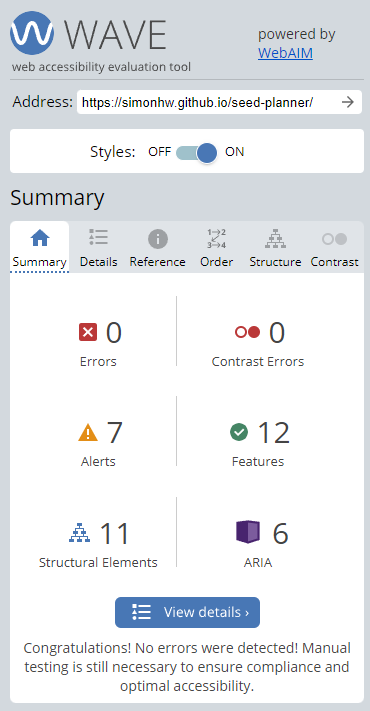
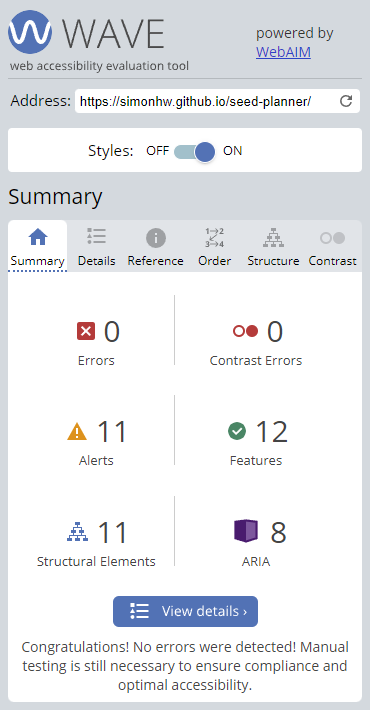
Doc: Update accessibility testing section of README.

diff --git a/README.md b/README.md
@@ -381,18 +381,26 @@ Calculate Button | When the user correctly fills out the size input fields and s
 
 ### Accessibility Testing
 [Wave](https://wave.webaim.org/) was used to check the web application for errors and issues associated with accessibility.
+The results for each page are shown below.
 
-![Results of Wave test for the web application](assets/images/readme/testing/wave-test.png)
+#### Index.html
+![Results of Wave test for index.html](assets/images/readme/testing/wave-test.png)
 
-There was initially a alert for a missing fieldset around the group of radio buttons. It was determined that the purpose of the radio buttons was explained by the heading of "Vegetable Picker", so the fieldset was omitted. To satisfy accessibility requirements, the parent div was given the attributes `role="radiogroup"` and `aria-label="Vegetable Picker` to aid screen reader users. The alert no longer appears for the current version of the web application.
+- There is one alert for a redundant link. This is the email link in the second footer. There are two links and two footers due to the different layout of the content on mobile screens and larger screens.
 
-![Wave alert for missing fieldset](assets/images/readme/testing/missing-fieldset.png)
+    ![Wave alerts for redundant link](assets/images/readme/testing/redundant-link.png)
 
-There are seven alerts for justified paragraph text. The paragraphs look more presentable when using this text alignment style, and the negative impat on readability that can sometimes be associated with this stlye ("varying word/letter spacing and 'rivers of white' that flow through the text") were not observed in the web application.
+- There are ten alerts for justified paragraph text. The paragraphs look more presentable when using this text alignment style, and the negative impat on readability that can sometimes be associated with this stlye ("varying word/letter spacing and 'rivers of white' that flow through the text") were not observed in the web application.
 
-![Wave alerts for justified text](assets/images/readme/testing/justified-text.png)
+    ![Wave alerts for justified text](assets/images/readme/testing/justified-text.png)
 
-To improve accessibilty and not sacrifice the existing code structure, the use of `aria-labelledby` was utilised for each radio button to make sure users of screen readers would know which button they were interacting with. 
+- There was initially an alert for a missing fieldset around the group of radio buttons. It was determined that the purpose of the radio buttons was explained by the heading of "Vegetable Picker", so the fieldset was omitted. To satisfy accessibility requirements, the parent div was given the attributes `role="radiogroup"` and `aria-label="Vegetable Picker` to aid screen reader users. The alert no longer appears for the current version of the web application.
+
+    ![Wave alert for missing fieldset](assets/images/readme/testing/missing-fieldset.png)
+
+- To improve accessibilty and not sacrifice the existing code structure, the use of `aria-labelledby` was utilised for each radio button to make sure users of screen readers would know which button they were interacting with. 
+
+#### 404.html
 
 ## Bugs
 ### Known Bugs
@@ -400,10 +408,6 @@ Note: Not all known bugs are present in the final version of the website.
 | # | Bug | Image | Plan to Solve |
 | --- | --- | --- | --- |
 | 1 | On the first page load or after a cache refresh, text wrapped in `<b>` tags is shown in a default font for ~32 milliseconds. (Note: the frames showing the default text have had time added to them just for the purposes of showing the effect in this gif file)| ![Strong tags bug](assets/images/bugs/b-bug.gif) | This issue can be elimitated by removing the `<b>` tags around the text. It seems to be an issue with the browser loading the bold version of the Alegreya Sans font. I tried directly adding the font weight via CSS stlying but the issue persisted. It was decided that the bold style did not add enough value to the web appliction compared to the delay in the font loading which did detract from the user experience. The `<b>` tags were therefore removed from the final version of the site.|
-
-
-- vertical scrollbar
-- background image doesn't stretch on large tablets
 
 ### Solved Bugs
 | # | Bug | Image | Solution |
